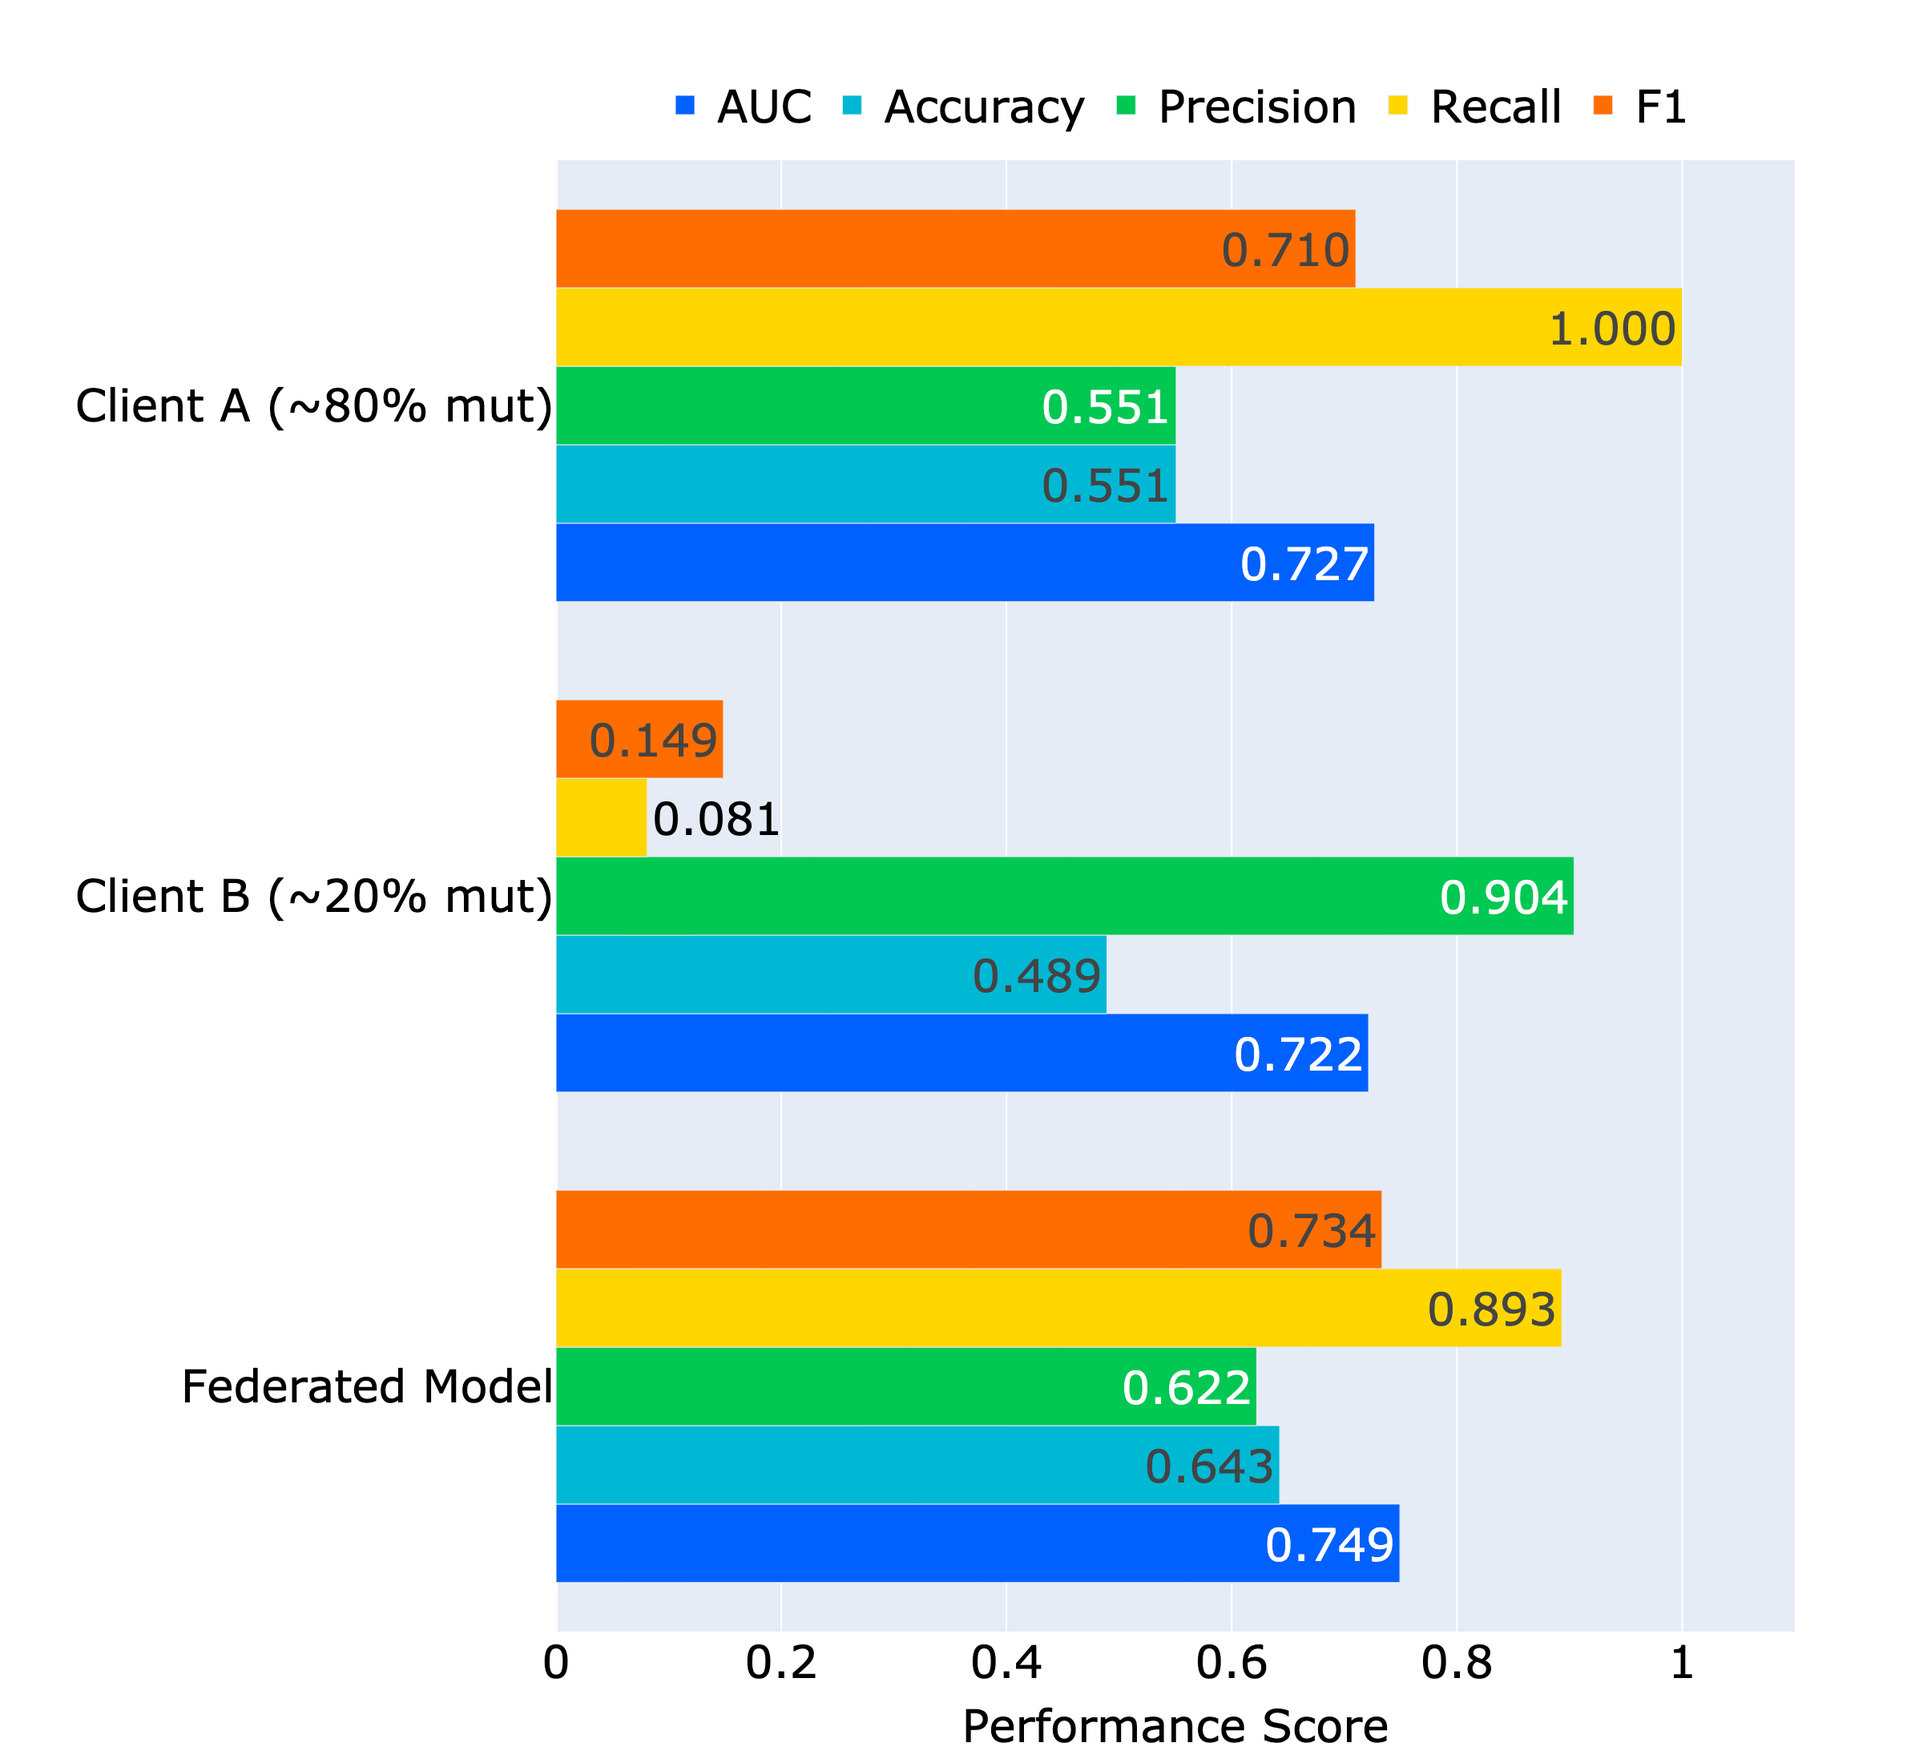
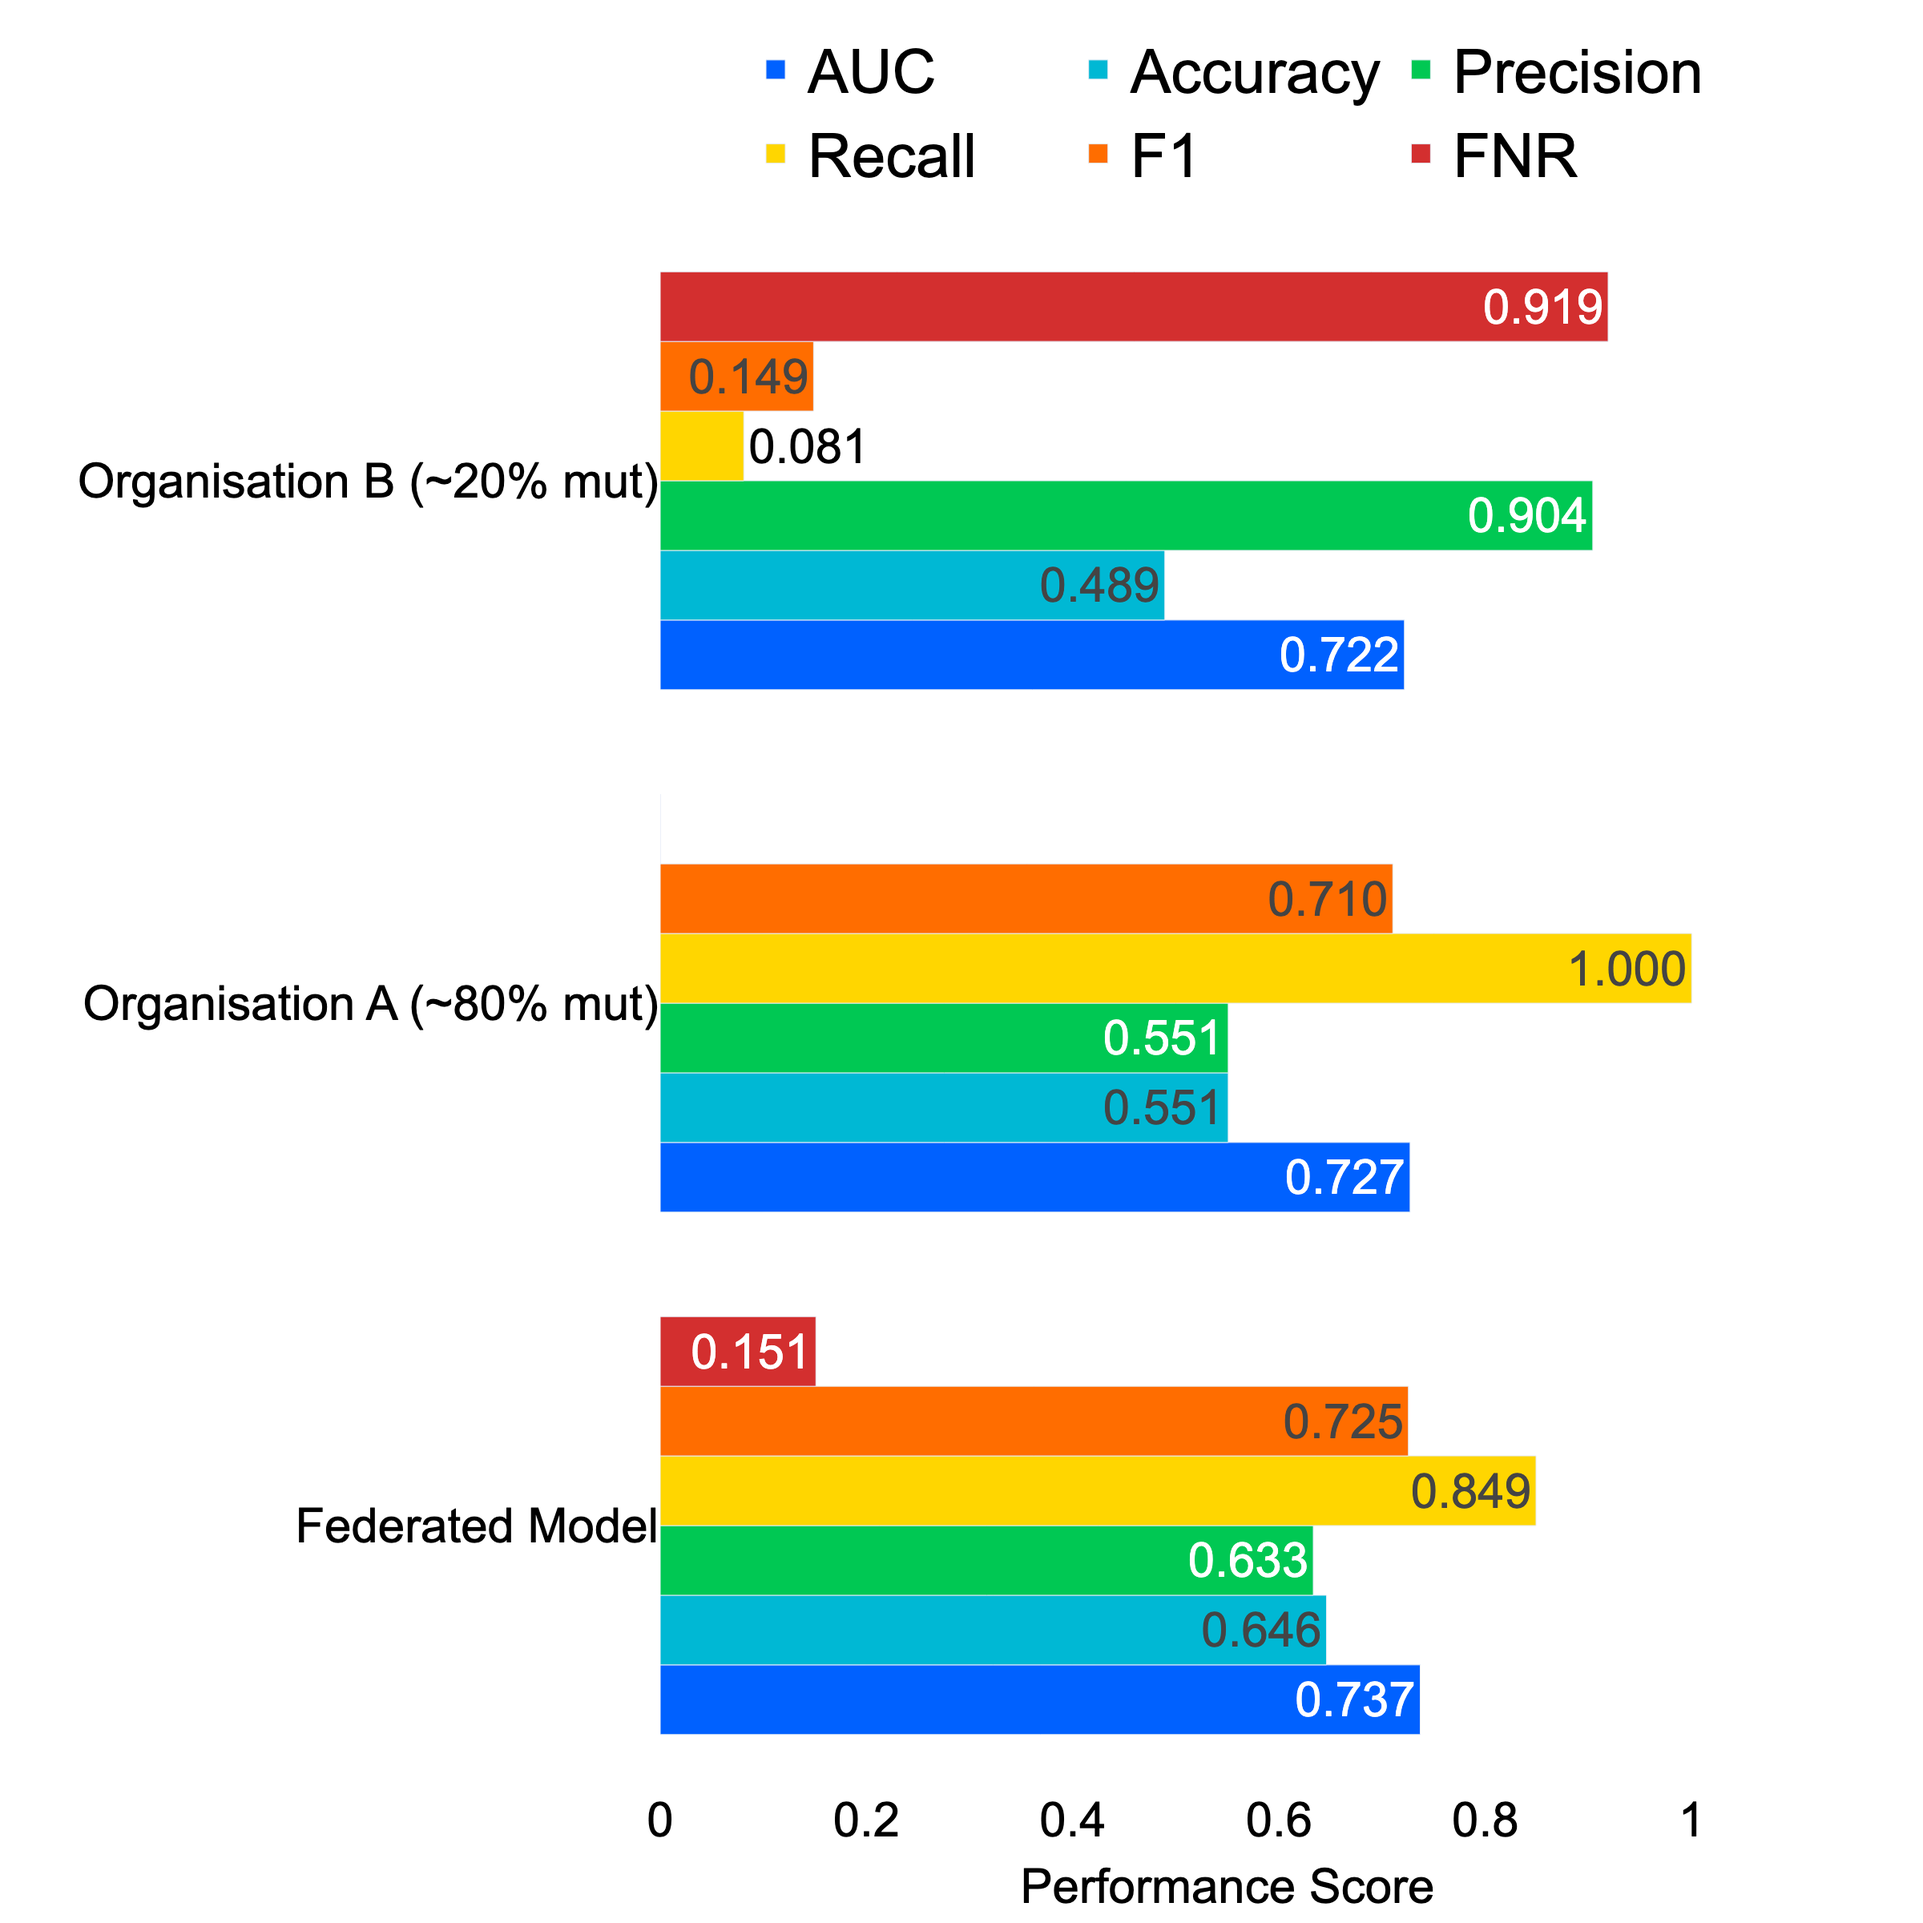
Updated vertical_fl

diff --git a/vertical_fl/create_performance_visualization.py b/vertical_fl/create_performance_visualization.py
@@ -3,6 +3,7 @@
 import plotly.graph_objects as go
 import json
 import pandas as pd
+import numpy as np
 from pathlib import Path
 
 
@@ -22,17 +23,28 @@ def load_existing_results():
     with open(local_path, 'r') as f:
         local_results = json.load(f)
     
-    return {**local_results, **{k: v for k, v in federated_results.items() if k == "Federated Model"}}
+    combined_results = {**local_results, **{k: v for k, v in federated_results.items() if k == "Federated Model"}}
+
+    rename_map = {
+        "Client A (~80% mut)": "Organisation A (~80% mut)",
+        "Client B (~20% mut)": "Organisation B (~20% mut)",
+    }
+
+    for old_name, new_name in rename_map.items():
+        if old_name in combined_results:
+            combined_results[new_name] = combined_results.pop(old_name)
+
+    return combined_results
 
 
 def create_performance_comparison_chart(results):
     """Create performance comparison chart."""
     
-    metrics = ['auc', 'accuracy', 'precision', 'recall', 'f1']
-    metric_labels = ['AUC', 'Accuracy', 'Precision', 'Recall', 'F1']
-    colors = ['#0061FF', '#00B8D4', '#00C853', '#FFD600', '#FF6D00']
+    metrics = ['auc', 'accuracy', 'precision', 'recall', 'f1', 'fnr']
+    metric_labels = ['AUC', 'Accuracy', 'Precision', 'Recall', 'F1', 'FNR']
+    colors = ['#0061FF', '#00B8D4', '#00C853', '#FFD600', '#FF6D00', '#D32F2F']
     
-    model_order = ['Federated Model', 'Client B (~20% mut)', 'Client A (~80% mut)']
+    model_order = ['Federated Model', 'Organisation A (~80% mut)', 'Organisation B (~20% mut)']
     data = []
     
     for model in model_order:
@@ -72,12 +84,12 @@ def create_performance_comparison_chart(results):
         xaxis_title='Performance Score',
         xaxis=dict(
             range=[0, 1.1],
-            title=dict(font=dict(color='black', size=28)),
-            tickfont=dict(color='black', size=28)
+            title=dict(font=dict(family='Arial', color='black', size=30)),
+            tickfont=dict(family='Arial', color='black', size=30)
         ),
         yaxis=dict(
-            title=dict(font=dict(color='black', size=28)),
-            tickfont=dict(color='black', size=28)
+            title=dict(font=dict(family='Arial', color='black', size=30)),
+            tickfont=dict(family='Arial', color='black', size=30)
         ),
         legend=dict(
             orientation="h",
@@ -85,9 +97,11 @@ def create_performance_comparison_chart(results):
             y=1.01,
             xanchor="center",
             x=0.5,
-            font=dict(color='black', size=28)
+            font=dict(family='Arial', color='black', size=38)
         ),
-        font=dict(color='black', size=28),
+        font=dict(family='Arial', color='black', size=30),
+        paper_bgcolor='rgba(0,0,0,0)',
+        plot_bgcolor='rgba(0,0,0,0)'
     )
     
     return fig
@@ -96,13 +110,14 @@ def create_performance_comparison_chart(results):
 def create_radar_chart(results):
     """Create a radar chart comparing all models."""
     
-    metrics = ['auc', 'accuracy', 'precision', 'recall', 'f1']
-    metric_labels = ['AUC', 'Accuracy', 'Precision', 'Recall', 'F1']
-    colors = ['#0061FF', '#00B8D4', '#FF6D00']
+    metrics = ['auc', 'accuracy', 'precision', 'recall', 'f1', 'fnr']
+    metric_labels = ['AUC', 'Accuracy', 'Precision', 'Recall', 'F1', 'FNR']
+    colors = ['#9C27B0', '#FF9800', '#00ACC1']
     
     fig = go.Figure()
-    model_names = list(results.keys())
-    
+    model_order = ['Federated Model', 'Organisation A (~80% mut)', 'Organisation B (~20% mut)']
+    model_names = [model for model in model_order if model in results]
+
     for i, (model_name, color) in enumerate(zip(model_names, colors)):
         values = [results[model_name][metric] for metric in metrics]
         values += [values[0]]
@@ -122,17 +137,20 @@ def create_radar_chart(results):
             radialaxis=dict(
                 visible=True, 
                 range=[0, 1],
-                tickfont=dict(color='black', size=16)
+                tickvals=[0, 0.5, 1.0],
+                ticktext=['0', '0.5', '1.0'],
+                tickangle=0,
+                tickfont=dict(family='Arial', color='black', size=28)
             ),
             angularaxis=dict(
-                tickfont=dict(color='black', size=16)
+                tickfont=dict(family='Arial', color='black', size=32)
             )
         ),
         title=dict(
             text='',
             x=0.5,
             xanchor='center',
-            font=dict(color='black')
+            font=dict(family='Arial', color='black', size=40)
         ),
         legend=dict(
             orientation="h",
@@ -140,9 +158,70 @@ def create_radar_chart(results):
             y=1.02,
             xanchor="center",
             x=0.5,
-            font=dict(color='black', size=16)
+            font=dict(family='Arial', color='black', size=36),
+            traceorder='normal'
         ),
-        font=dict(color='black', size=16),
+        font=dict(family='Arial', color='black', size=28),
+        paper_bgcolor='rgba(0,0,0,0)',
+        plot_bgcolor='rgba(0,0,0,0)'
+    )
+    
+    return fig
+
+
+def create_confusion_matrix(model_name, metrics, test_labels):
+    """Create confusion matrix for a single model."""
+    total_positives = int(np.sum(test_labels == 1))
+    total_negatives = int(np.sum(test_labels == 0))
+    
+    recall = metrics['recall']
+    precision = metrics['precision']
+    
+    # Calculate confusion matrix values
+    tp = int(recall * total_positives)
+    fn = total_positives - tp
+    
+    if precision > 0:
+        fp = int(tp / precision - tp)
+    else:
+        fp = total_negatives
+    
+    tn = total_negatives - fp
+    
+    confusion_matrix = np.array([[tn, fp], [fn, tp]])
+    
+    # Create annotations
+    annotations = []
+    labels = [['TN', 'FP'], ['FN', 'TP']]
+    for i in range(2):
+        for j in range(2):
+            annotations.append(
+                dict(
+                    x=j,
+                    y=i,
+                    text=f"{labels[i][j]}: {confusion_matrix[i, j]}",
+                    font=dict(family='Arial', color='white' if confusion_matrix[i, j] > 400 else 'black', size=30),
+                    showarrow=False
+                )
+            )
+    
+    fig = go.Figure(go.Heatmap(
+        z=confusion_matrix,
+        x=['Predicted Non-mutagen', 'Predicted Mutagen'],
+        y=['Actual Non-mutagen', 'Actual Mutagen'],
+        colorscale='Blues',
+        showscale=False
+    ))
+    
+    fig.update_layout(
+        title=dict(text=model_name, x=0.5, xanchor='center', font=dict(family='Arial', size=50)),
+        xaxis=dict(side='bottom', tickfont=dict(family='Arial', size=30)),
+        yaxis=dict(tickfont=dict(family='Arial', size=30), autorange='reversed'),
+        annotations=annotations,
+        font=dict(family='Arial', size=30),
+        paper_bgcolor='rgba(0,0,0,0)',
+        height=800,
+        width=900
     )
     
     return fig
@@ -159,10 +238,22 @@ def main():
     plots_dir.mkdir(exist_ok=True)
     
     fig1 = create_performance_comparison_chart(results)
-    fig1.write_image(plots_dir / "performance_comparison.png", width=1200, height=1100, scale=2)
+    fig1.write_image(plots_dir / "performance_comparison.png", width=1200, height=1200, scale=2)
     
     fig2 = create_radar_chart(results)
-    fig2.write_image(plots_dir / "performance_radar.png", width=700, height=500, scale=2)
+    fig2.write_image(plots_dir / "performance_radar.png", width=1600, height=900, scale=2)
+    
+    # Create confusion matrices
+    base_dir = Path(__file__).parent
+    data = np.load(base_dir / "data/noniid_split.npz")
+    test_labels = data['test_labels']
+    
+    for model_name, metrics in results.items():
+        fig = create_confusion_matrix(model_name, metrics, test_labels)
+        filename = model_name.replace(' ', '_').replace('(', '').replace(')', '').replace('~', '')
+        fig.write_image(plots_dir / f"confusion_matrix_{filename}.png", width=900, height=800, scale=2)
+    
+    print(f"Saved to {plots_dir}/")
 
 
 if __name__ == "__main__":

diff --git a/vertical_fl/vertical_fl/task.py b/vertical_fl/vertical_fl/task.py
@@ -117,6 +117,9 @@ def evaluate_model(model: torch.nn.Module, test_data: torch.Tensor, test_labels:
         precision = precision_score(y_true, y_pred, zero_division=0)
         recall = recall_score(y_true, y_pred, zero_division=0)
         f1 = f1_score(y_true, y_pred, zero_division=0)
+        
+        # Calculate False Negative Rate (FNR = 1 - Recall)
+        fnr = 1 - recall
     
     return {
         "accuracy": accuracy,
@@ -124,5 +127,6 @@ def evaluate_model(model: torch.nn.Module, test_data: torch.Tensor, test_labels:
         "auc": auc,
         "precision": precision,
         "recall": recall,
-        "f1": f1
+        "f1": f1,
+        "fnr": fnr
     } 

diff --git a/vertical_fl/evaluate_local_models.py b/vertical_fl/evaluate_local_models.py
@@ -73,13 +73,17 @@ def evaluate_model(model, test_data, test_labels):
         precision = precision_score(test_labels.numpy(), binary, zero_division=0)
         recall = recall_score(test_labels.numpy(), binary, zero_division=0)
         f1 = f1_score(test_labels.numpy(), binary, zero_division=0)
+        
+        # Calculate False Negative Rate (FNR = 1 - Recall)
+        fnr = 1 - recall
     
     return {
         'accuracy': acc,
         'auc': auc,
         'precision': precision,
         'recall': recall,
-        'f1': f1
+        'f1': f1,
+        'fnr': fnr
     }
 
 
